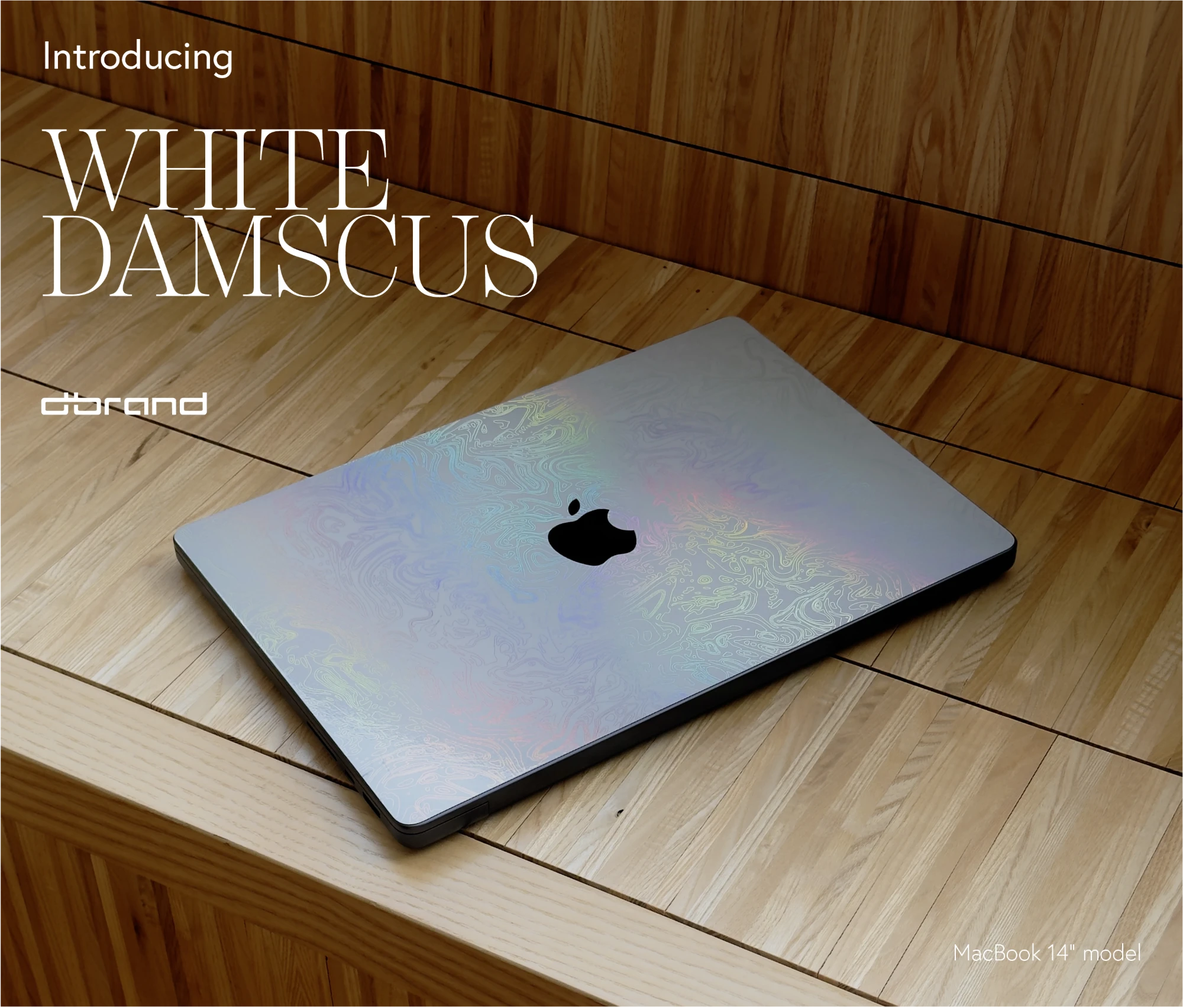
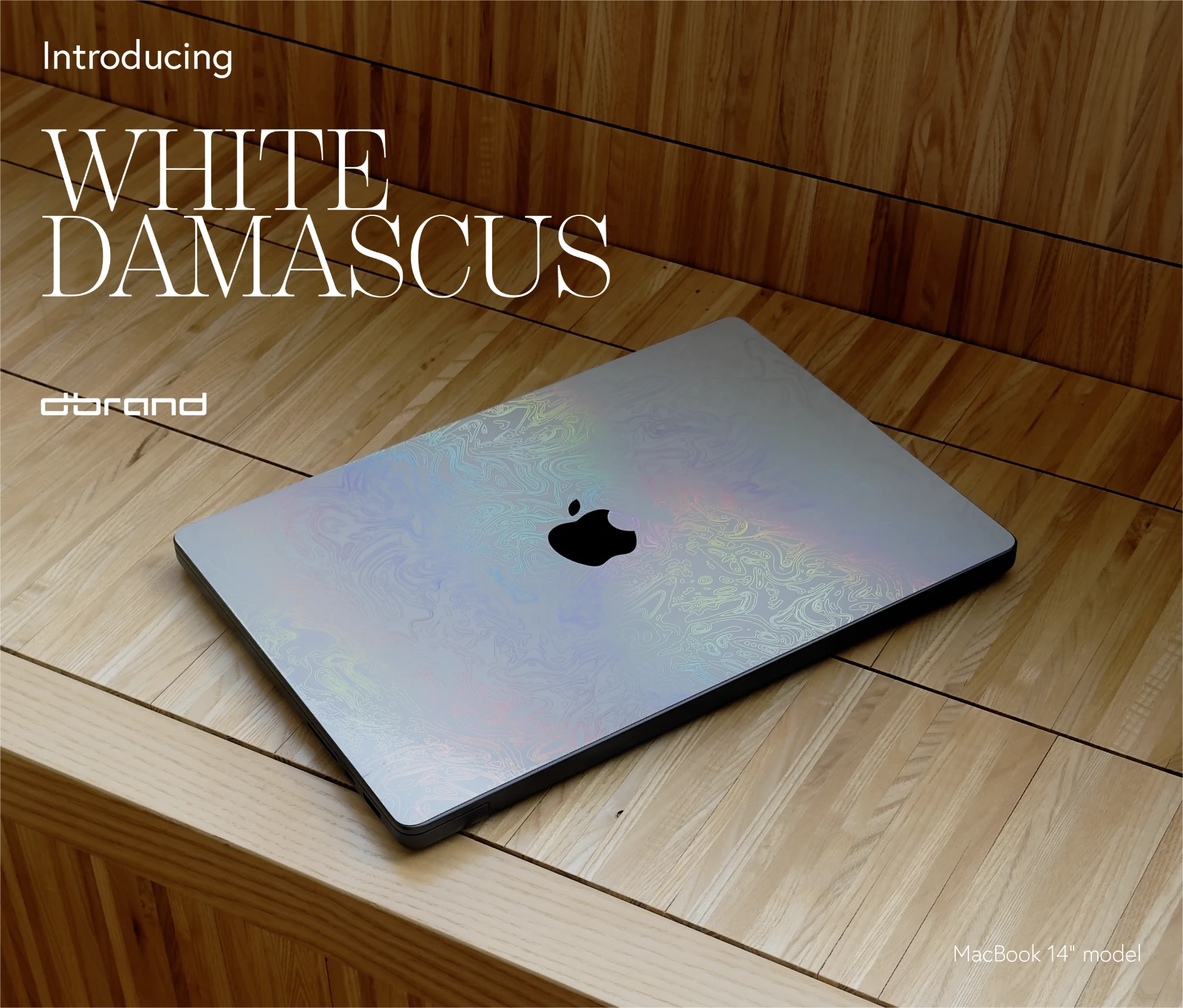
Replace Dbrand image with corrected version
The headline now reads WHITE DAMASCUS.

Changed region(s): [[0.217, 0.1867, 0.527, 0.3112], [0.0, 0.9959, 0.527, 1.0], [0.558, 0.9959, 1.0, 1.0]]

diff --git a/index.html b/index.html
@@ -98,7 +98,7 @@
             <p class="project__date">July 2026</p>
           </header>
           <button class="project__zoom" type="button" popovertarget="preview-5" aria-label="Open larger preview. Dbrand ad introducing the White Damascus MacBook skin.">
-            <img class="project__image" src="assets/project-dbrand-white-damascus.webp" alt="Dbrand ad introducing the White Damascus MacBook skin." width="2000" height="1703">
+            <img class="project__image" src="assets/project-dbrand-white-damascus.webp" alt="Dbrand ad introducing the White Damascus MacBook skin." width="2000" height="1704">
           </button>
         </article>
       </div>
@@ -174,7 +174,7 @@
     </div>
     <div class="preview" id="preview-5" popover>
       <button class="preview__close" type="button" popovertarget="preview-5" popovertargetaction="hide" aria-label="Close preview">
-        <img src="assets/project-dbrand-white-damascus.webp" alt="Dbrand ad introducing the White Damascus MacBook skin." width="2000" height="1703" loading="lazy">
+        <img src="assets/project-dbrand-white-damascus.webp" alt="Dbrand ad introducing the White Damascus MacBook skin." width="2000" height="1704" loading="lazy">
         <span class="preview__hint" aria-hidden="true">Close ✕</span>
       </button>
     </div>
